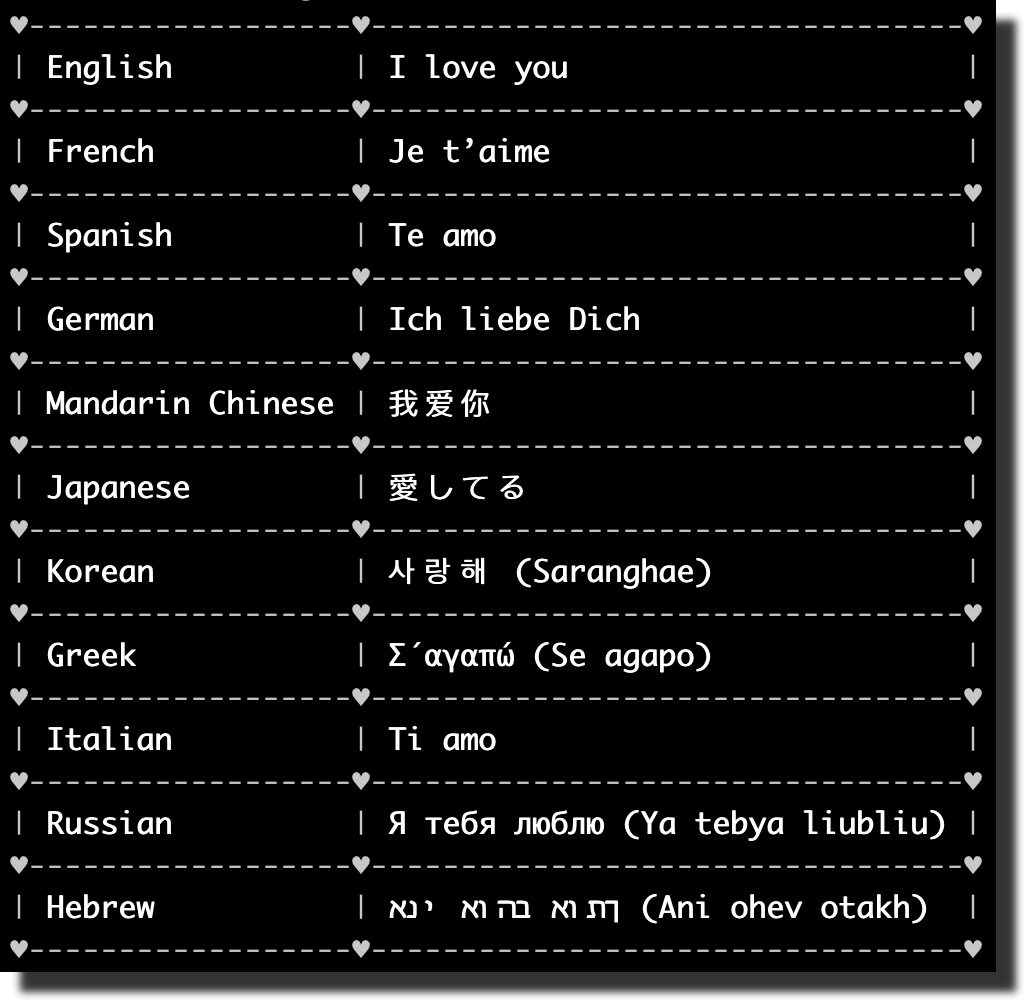
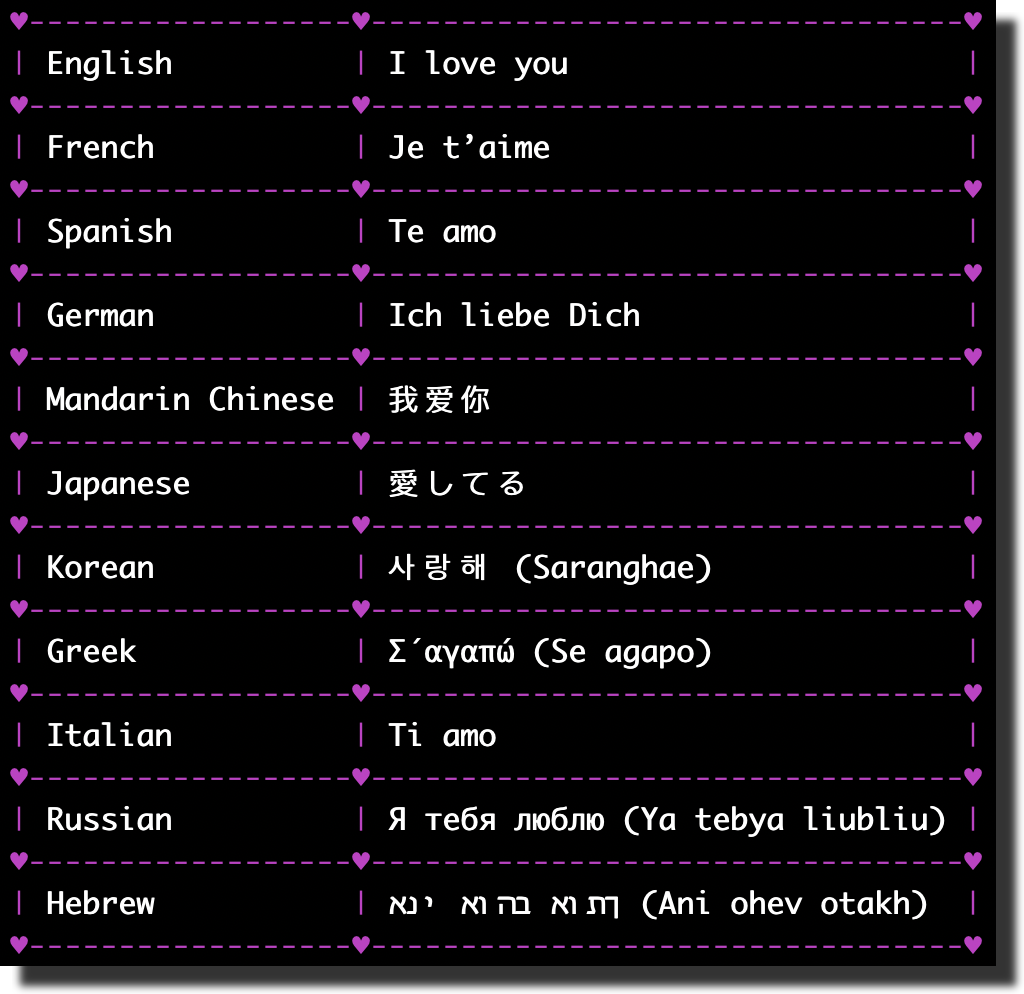
Updated unicode sample

diff --git a/samples/unicode.cpp b/samples/unicode.cpp
@@ -4,7 +4,10 @@ using namespace tabulate;
 int main() {
   Table table;
 
-  table.format().corner("♥").font_style({FontStyle::bold});
+  table.format().corner("♥")
+    .font_style({FontStyle::bold})
+    .corner_color(Color::magenta)
+    .border_color(Color::magenta);
 
   table.add_row({"English", "I love you"});
   table.add_row({"French", "Je t’aime"});

diff --git a/README.md b/README.md
@@ -543,9 +543,10 @@ using namespace tabulate;
 int main() {
   Table table;
 
-  table.format()
-    .corner("♥")
-    .font_style({FontStyle::bold});
+  table.format().corner("♥")
+    .font_style({FontStyle::bold})
+    .corner_color(Color::magenta)
+    .border_color(Color::magenta);
 
   table.add_row({"English", "I love you"});
   table.add_row({"French", "Je t’aime"});
@@ -558,7 +559,7 @@ int main() {
   table.add_row({"Italian", "Ti amo"});
   table.add_row({"Russian", "Я тебя люблю (Ya tebya liubliu)"});
   table.add_row({"Hebrew", "אני אוהב אותך (Ani ohev otakh)"});
-  
+
   // Column 1 is using mult-byte characters
   table.column(1).format()
     .multi_byte_characters(true);
